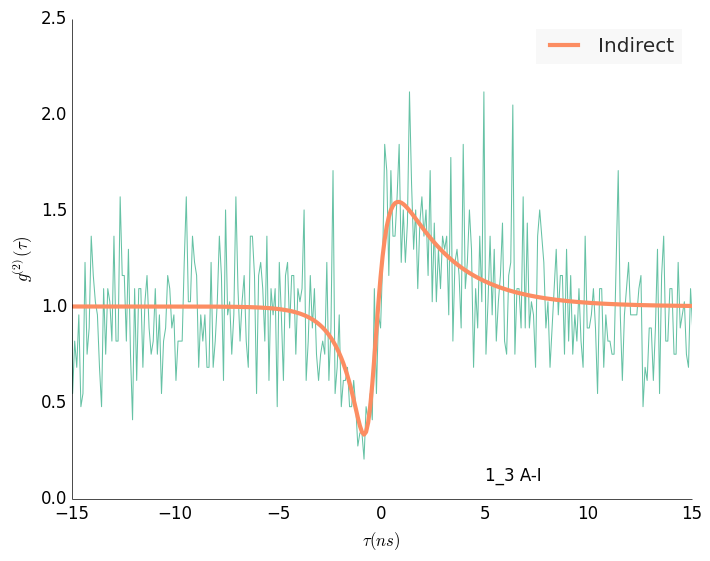
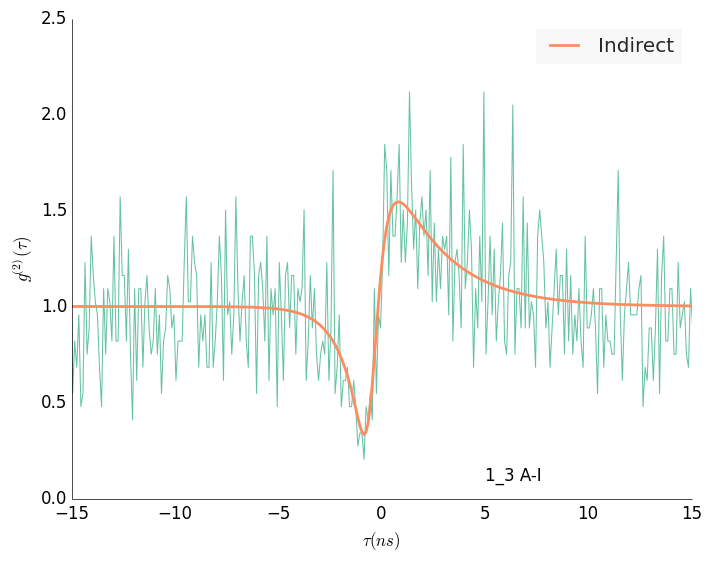
image improved

diff --git a/corrs_specific.py b/corrs_specific.py
@@ -81,7 +81,7 @@ def main():
         if type == "direct":
             ppl.plot(time, g2.g2c_direct(time, *poptd), label="Direct", linewidth=2)
         elif type == "indirect":
-            ppl.plot(time, g2.g2c_indirect(time, *popti), label="Indirect", linewidth=3)
+            ppl.plot(time, g2.g2c_indirect(time, *popti), label="Indirect", linewidth=2)
 
         plt.text(5, 0.1, label)
         plt.xlim([-15, 15])
